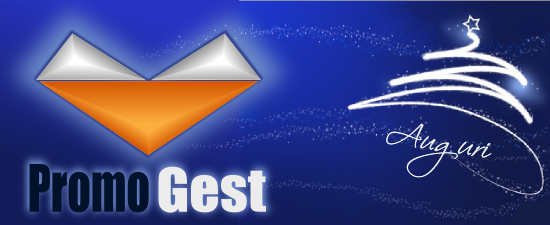
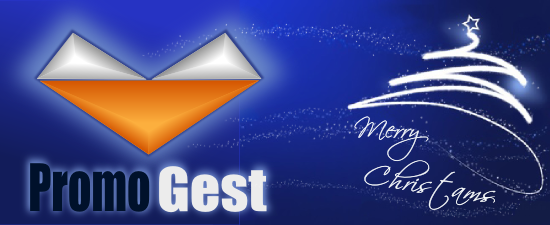
leggere modifiche

diff --git a/core/promogest/ui/Login.py b/core/promogest/ui/Login.py
@@ -120,7 +120,7 @@ class Login(GladeApp):
         data = datetime.datetime.now()
         if data > datetime.datetime(data.year,12,15) or \
             data < datetime.datetime(data.year+1,1,10):
-            randomFile = random.sample([1, 2, 3, 4, 5], 1)[0]
+            randomFile = random.sample([1, 2, 3, 4, 5,6], 1)[0]
             print "RANDOM FILE NUMERO", randomFile
             fileSplashImage = Environment.conf.guiDir + "natale["+str(randomFile)+"].png"
             if Environment.engine.name == "sqlite":
